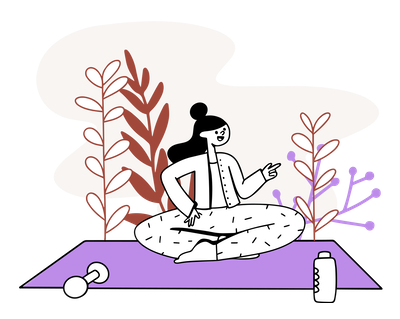
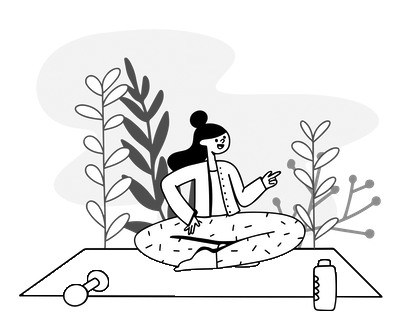
v3

Changed region(s): [[0.03, 0.1411, 0.96, 0.9875]]

diff --git a/scripts.js b/scripts.js
@@ -2,16 +2,18 @@
 $(document).ready(function(){
    
     $('#bot p').delay(3000).fadeOut(500, function() {
+
         $(this).text("Bloom helps people to track and achieve small to medium goals everyday and medium to large goals every week.").fadeIn(500);
         $("#bot img").attr("src","img/progress2.png");
+        $("#yoga").attr("src","img/yoga2.png");
 
 
         $('#bot p').delay(4000).fadeOut(500, function() {
-            $(this).text("By doing so we aim to promote health and productivity for our users. Interested in joining?").fadeIn(500);
-            $("#bot img").attr("src","img/progress3.png");
 
+            $(this).text("By doing so we aim to promote health and productivity for our users. Interested in blooming?").fadeIn(500);
+            $("#bot img").attr("src","img/progress3.png");
             $('#accountReg').delay(2000).animate({bottom: '25%'});
-              
+            $('#logo').fadeIn();
           });
       
 

diff --git a/styles.css b/styles.css
@@ -11,8 +11,7 @@ body {
     height: 100%;
     width: 100%;
     background: radial-gradient(circle at center white, #D2CFE0 100%);
-
-    
+    overflow: hidden;
 }
 
 #top, #middle, #bot {
@@ -40,24 +39,38 @@ h1 {
     font-style: italic;
 }
 
-#middle img {
+#logo {
+    display: none;
+    position: absolute;
+    height: 200%;
+    z-index: -1;
+}
+
+
+
+#yoga {
     height: 100%;
 }
+
 
 hr {
     margin-top: 5%;
     width: 75%;
-    height: 2px;
+    height: 1px;
     border-style: none;
     background-color: white;
 }
 
 p {
+    position: absolute;
+    width: 75%;
     font-family: 'Nunito', sans-serif;
     font-size: 2vh;
     color: #373737;
-    text-align: center;
+    text-align: left;
+    left: 12.5%;
     margin: 10% 5% 10% 5%;
+
 }
 
 #bot img {

diff --git a/index.html b/index.html
@@ -39,7 +39,8 @@
             
             <div id="middle">
 
-                <img src="img/yoga.png"/>
+                <img id="logo" src="img\logo.png"/>
+                <img id="yoga" src="img/yoga.png"/>
 
             </div>
 
